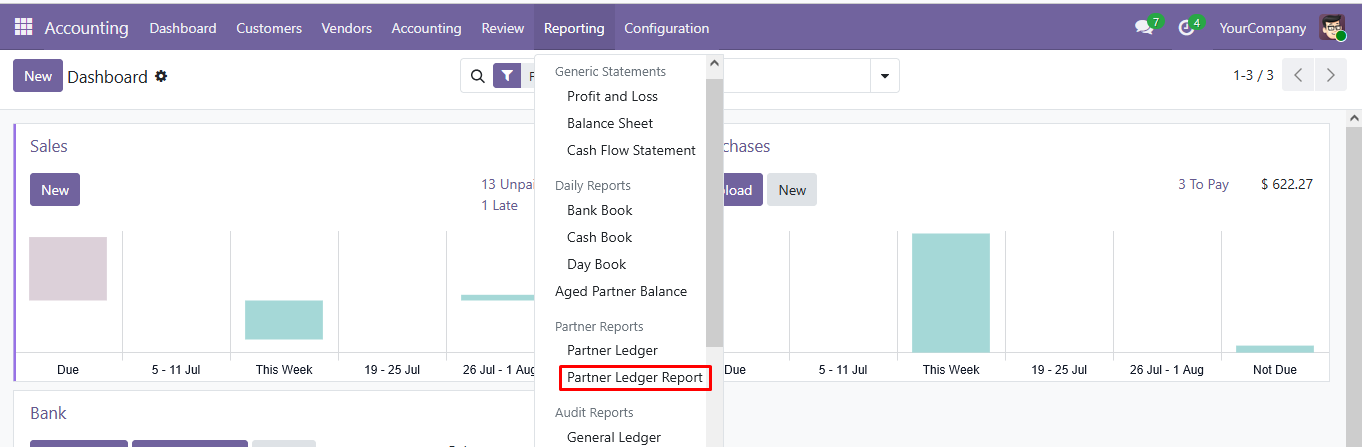
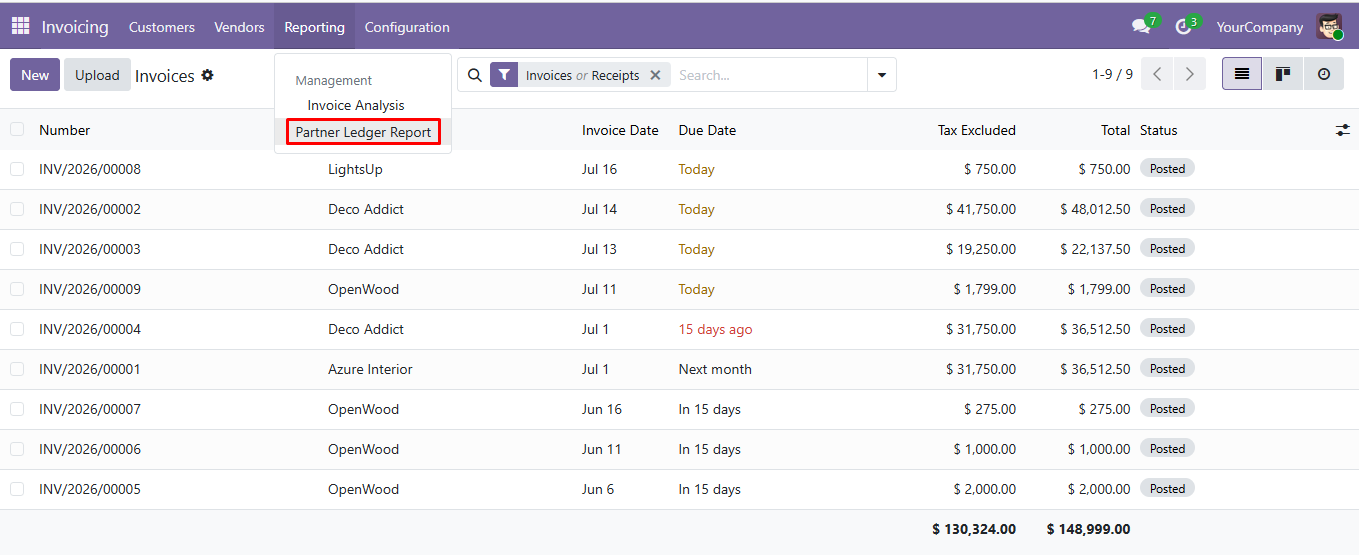
Change manifest depends

diff --git a/sb_partner_ledger/__manifest__.py b/sb_partner_ledger/__manifest__.py
@@ -9,7 +9,7 @@
     'website': "https://sybaz.com.pk/",
     'category': 'Accounting',
     'version': '19.0.1.0.1',
-    'depends': ['account','base_accounting_kit','base_account_budget'],
+    'depends': ['account'],
 
     'data': [
         'security/ir.model.access.csv',
